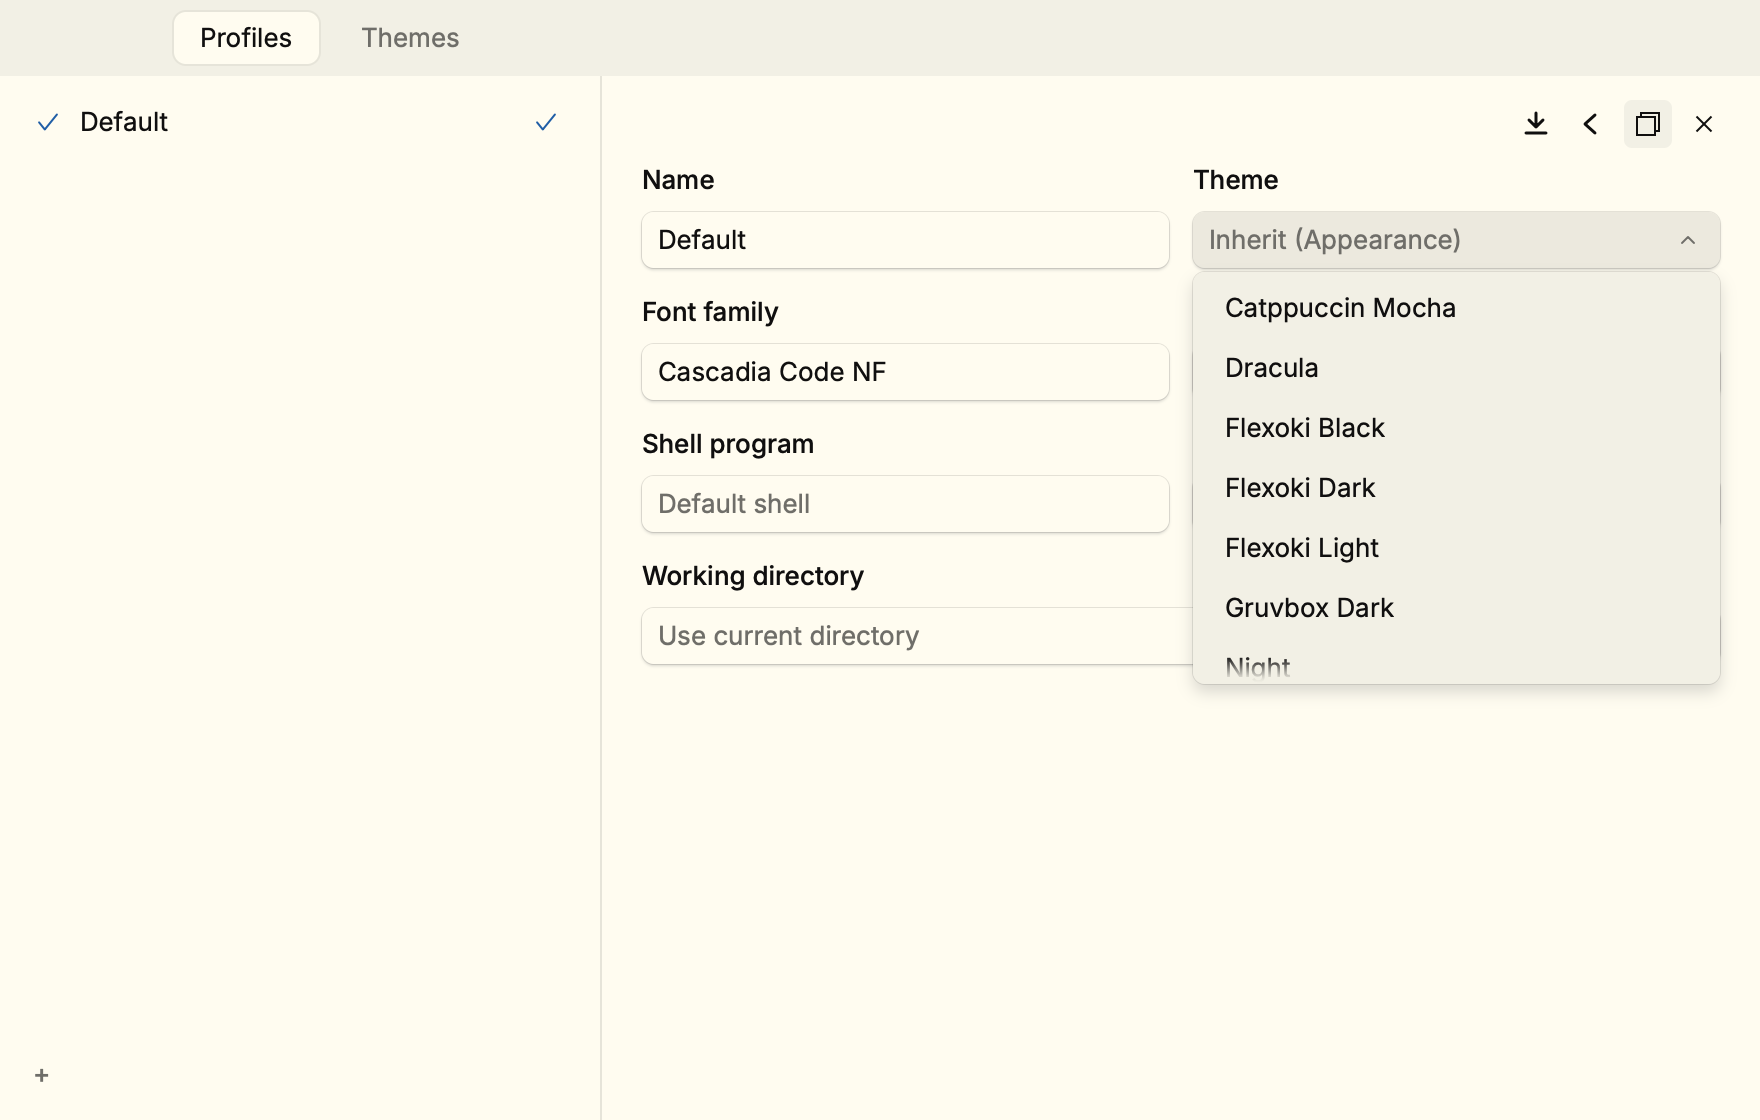
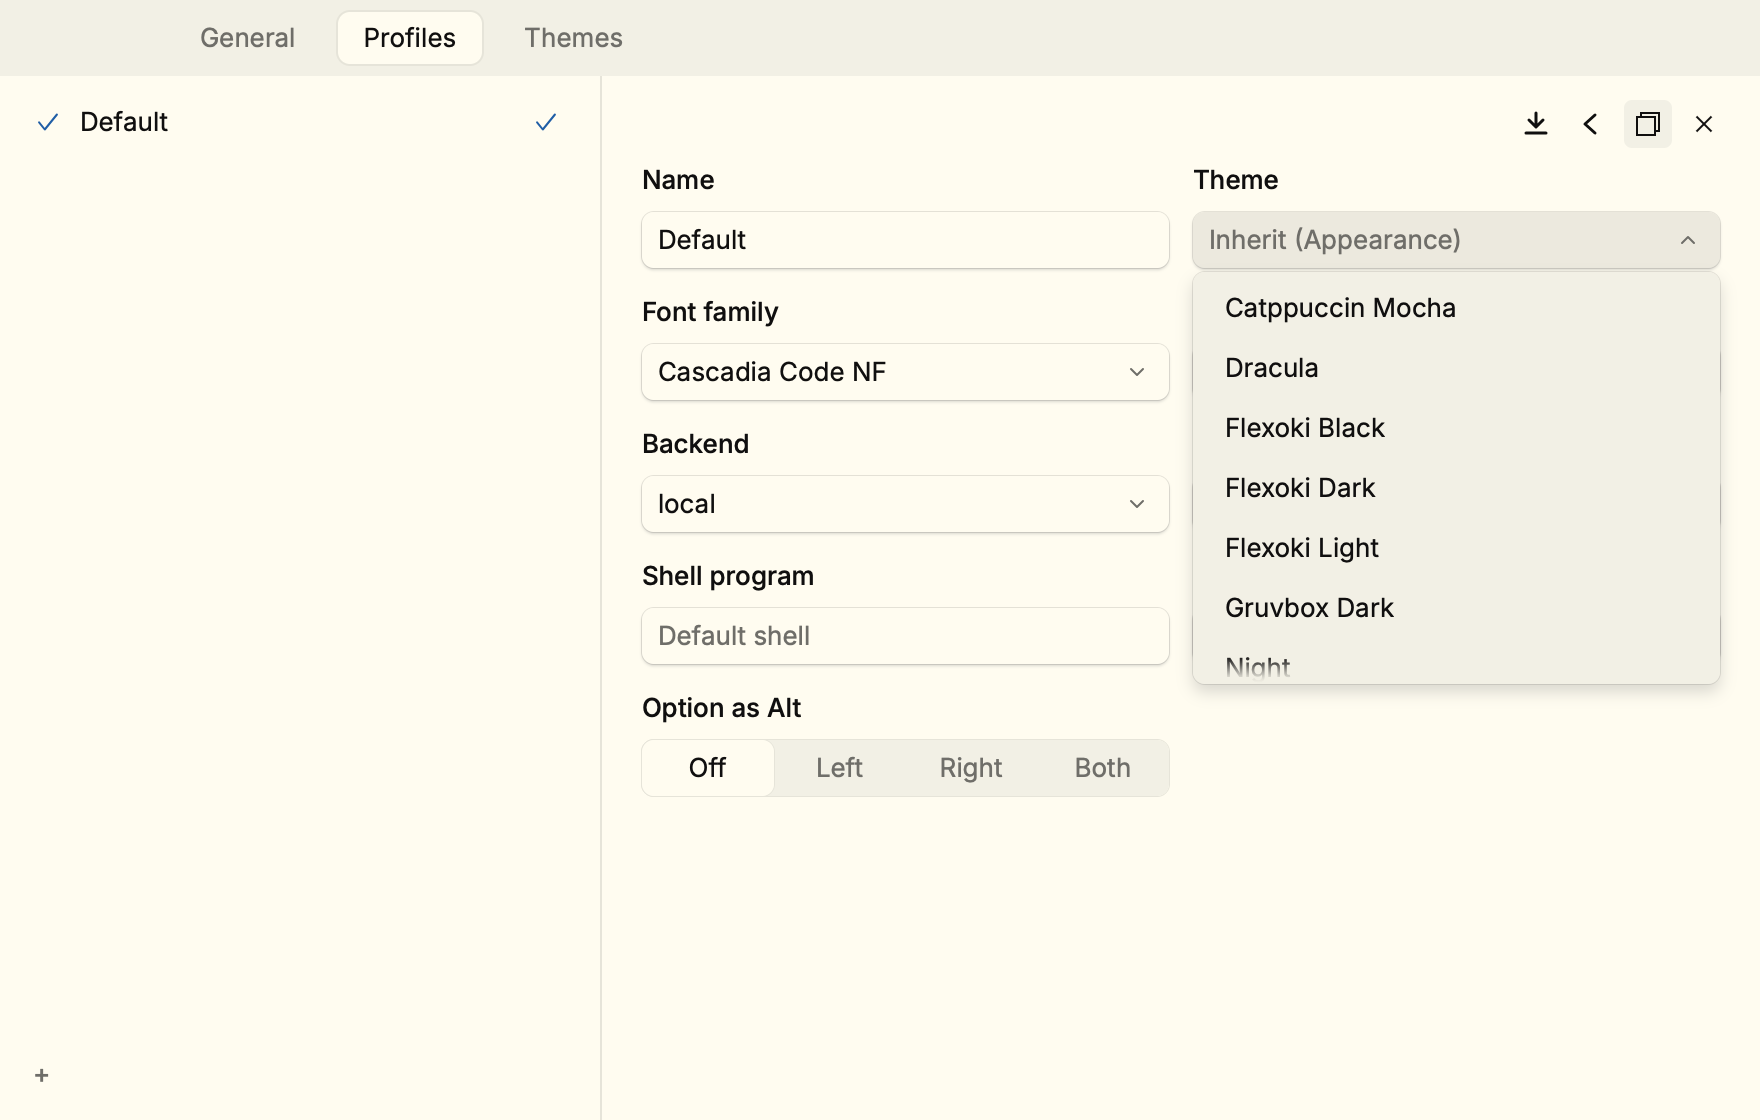
feat(settings): General first, laid out as the profile editor is
The window opens on General. Its two settings are fields in the editor's
two columns, a switch and a two-way choice, with the explanations that
were scattered under them moved to docs/config.md. Option as Alt takes
half a row, like the other fields.

Assisted-by: Claude:claude-opus-5-5

diff --git a/rune-term/src/settings_ui/general.rs b/rune-term/src/settings_ui/general.rs
@@ -1,9 +1,10 @@
 //! The general tab: what is the app's, not a profile's or a theme's. A change
 //! is saved as it is made.
 
-use rune::{col, text, El, ScrollSpec};
+use rune::{col, row, El, ScrollSpec};
 use rune_kit::{Field, Kit, SegmentedControl, Switch};
 
+use super::profiles::half;
 use super::SettingsModel;
 use crate::settings::{OnClose, Settings};
 
@@ -11,7 +12,7 @@ pub fn editor(kit: &Kit, model: &SettingsModel) -> El {
     let settings = &model.config.settings;
     let confirm = Switch::new(settings.confirm_close)
         .label("Ask before closing a running program")
-        .description("A shell at its prompt closes without asking.")
+        .hide_label()
         .on_toggle(|m: &mut SettingsModel| {
             change(m, |settings| {
                 settings.confirm_close = !settings.confirm_close
@@ -23,27 +24,15 @@ pub fn editor(kit: &Kit, model: &SettingsModel) -> El {
         OnClose::Kill => 0,
         OnClose::Detach => 1,
     };
-    let on_close = Field::new()
+    let on_close = SegmentedControl::new(&["Kill", "Detach"], Some(at))
         .label("Closing a session tab")
-        .control(
-            SegmentedControl::new(&["Kill", "Detach"], Some(at))
-                .label("Closing a session tab")
-                .width(None)
-                .on_pick(|m: &mut SettingsModel, at, _tx| {
-                    change(m, |settings| {
-                        settings.on_close = [OnClose::Kill, OnClose::Detach][at]
-                    });
-                })
-                .build(kit),
-        )
+        .width(None)
+        .on_pick(|m: &mut SettingsModel, at, _tx| {
+            change(m, |settings| {
+                settings.on_close = [OnClose::Kill, OnClose::Detach][at]
+            });
+        })
         .build(kit);
-    let on_close = col().w_full().gap(6.0).child(on_close).child(
-        text("Kill ends the tmux or rmux window; Detach hides it, still running. A session profile can choose otherwise.")
-            .font(kit.ty.small)
-            .color(kit.c.text_muted)
-            .wrap()
-            .w_full(),
-    );
     let body = col()
         .w_full()
         .grow(1.0)
@@ -51,12 +40,27 @@ pub fn editor(kit: &Kit, model: &SettingsModel) -> El {
         .px(20.0)
         .pt(8.0)
         .pb(16.0)
-        .gap(18.0)
+        .gap(14.0)
         .scroll(ScrollSpec {
             stick_bottom: false,
         })
-        .child(confirm)
-        .child(on_close);
+        .child(
+            row()
+                .w_full()
+                .gap(12.0)
+                .child(half(
+                    Field::new()
+                        .label("Ask before closing a running program")
+                        .control(row().h(28.0).center_y().child(confirm))
+                        .build(kit),
+                ))
+                .child(half(
+                    Field::new()
+                        .label("Closing a session tab")
+                        .control(on_close)
+                        .build(kit),
+                )),
+        );
     super::with_actions(Vec::new(), body)
 }
 

diff --git a/rune-term/src/settings_ui/mod.rs b/rune-term/src/settings_ui/mod.rs
@@ -62,9 +62,9 @@ pub(crate) fn link(kit: &Kit, url: String) -> El {
 #[derive(Clone, Copy, Debug, PartialEq, Eq, Default)]
 pub enum Tab {
     #[default]
+    General,
     Profiles,
     Themes,
-    General,
 }
 
 /// The settings window's state.
@@ -299,6 +299,14 @@ fn toolbar(kit: &Kit, model: &SettingsModel, cx: &mut Cx<SettingsModel>) -> El {
         .key("titlebar")
         .child(section(
             kit,
+            "General",
+            "section-general",
+            model.tab == Tab::General,
+            tab_h,
+            Tab::General,
+        ))
+        .child(section(
+            kit,
             "Profiles",
             "section-profiles",
             model.tab == Tab::Profiles,
@@ -312,14 +320,6 @@ fn toolbar(kit: &Kit, model: &SettingsModel, cx: &mut Cx<SettingsModel>) -> El {
             model.tab == Tab::Themes,
             tab_h,
             Tab::Themes,
-        ))
-        .child(section(
-            kit,
-            "General",
-            "section-general",
-            model.tab == Tab::General,
-            tab_h,
-            Tab::General,
         ))
         .child(el().grow(1.0));
     if let Some(status) = model.status.clone() {
@@ -729,7 +729,9 @@ mod tests {
             .join("rune-term-settings-ui-test")
             .join(name);
         let _ = std::fs::remove_dir_all(&dir);
-        SettingsModel::with_config(ConfigFile::default().at_dir(dir), None)
+        let mut model = SettingsModel::with_config(ConfigFile::default().at_dir(dir), None);
+        model.tab = Tab::Profiles;
+        model
     }
 
     fn runtime(model: SettingsModel) -> Runtime<SettingsModel> {

diff --git a/rune-term/src/settings_ui/profiles.rs b/rune-term/src/settings_ui/profiles.rs
@@ -366,10 +366,16 @@ pub fn editor(
     };
     let body = match cfg!(target_os = "macos") {
         true => body.child(
-            Field::new()
-                .label("Option as Alt")
-                .control(option_as_alt(kit, model.profile.option_as_alt))
-                .build(kit),
+            row()
+                .w_full()
+                .gap(12.0)
+                .child(half(
+                    Field::new()
+                        .label("Option as Alt")
+                        .control(option_as_alt(kit, model.profile.option_as_alt))
+                        .build(kit),
+                ))
+                .child(half(el())),
         ),
         false => body,
     };
@@ -399,7 +405,8 @@ fn text_field(
         .build(kit)
 }
 
-fn half(field: El) -> El {
+/// A field that takes half of its row.
+pub(super) fn half(field: El) -> El {
     field.grow(1.0).min_w(0.0)
 }
 

diff --git a/docs/config.md b/docs/config.md
@@ -41,6 +41,8 @@ light = "Flexoki Light"
 - `default_profile`: profile used when none is named.
 - `font_size`: default size in points.
 - `theme`: theme used when a profile does not name one and the appearance pair is not in use.
+- `confirm_close`: default `true`. Closing a tab or the window asks first while a program runs in it; a shell at its prompt closes without asking.
+- `on_close`: `"kill"`, the default, or `"detach"`. Closing a session tab kills its tmux or rmux window, or detaches it, which hides the tab and leaves the window running. A session profile's `on_close` wins.
 - `adaptive_theme`: two theme names. When both are non-empty and the profile has no theme, the desktop appearance picks `dark` or `light`. On macOS that is `AppleInterfaceStyle`. Elsewhere, and when the appearance cannot be read, `dark` is used. The pair is not watched while the app is running.
 
 `version` is required. Unknown keys are ignored.
@@ -111,6 +113,12 @@ Cursor and selection colors fall back to an inverted foreground and background. 
 ## Settings window
 
 A field stays in the draft while it is typed and is written when the field is finished: Enter, Tab, or a click elsewhere. Choosing a theme from the menu writes that name immediately. Save writes the whole draft, and so does closing the window. Revert restores the last stored values.
+
+### General
+
+![General: what the app does, not a profile.](images/settings-general.png)
+
+The window opens here. The two settings are `confirm_close` and `on_close` from `config.toml`, saved as they change.
 
 ### Profiles
 

diff --git a/docs/todo/status.md b/docs/todo/status.md
@@ -83,7 +83,7 @@ The numbers are that plan's.
       (Cmd+,) opens on its own, built with rune-kit and drawn in the terminal's
       own palette. It has a profiles list and a themes list that behave the
       same: apply, save, revert, duplicate, delete and create, with the theme
-      on screen the one the editor is showing. A General tab, with no list,
+      on screen the one the editor is showing. A General tab, first and where the window opens, with no list,
       holds what is the app's: asking before a close ends a program, and what
       closing a session tab does. A profile picks which Option keys are Alt on
       macOS (left, right or both), as iTerm2's do; one Option key is a Rune
